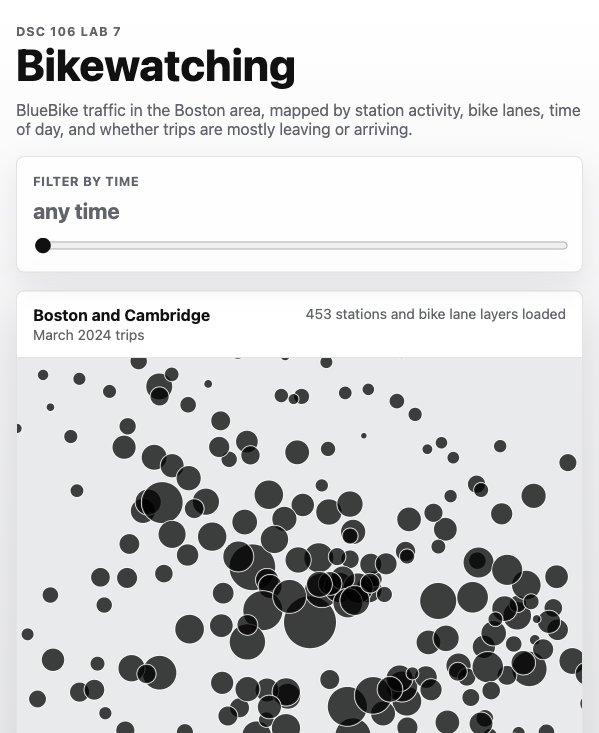
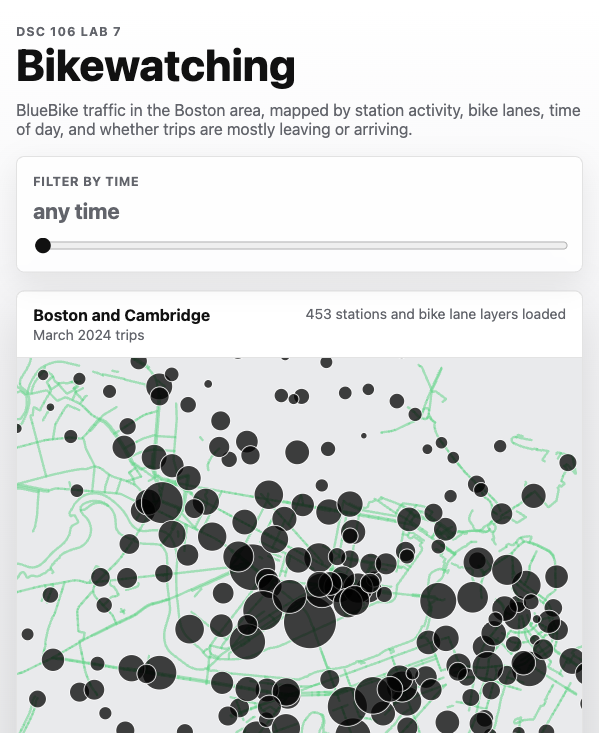
Add lane fallback preview

diff --git a/map.js b/map.js
@@ -20,6 +20,7 @@ let radiusScale = d3.scaleSqrt().range([0, 26]);
 let stationFlow = d3.scaleQuantize().domain([0, 1]).range([0, 0.5, 1]);
 let departuresByMinute = Array.from({ length: MINUTES_PER_DAY }, () => []);
 let arrivalsByMinute = Array.from({ length: MINUTES_PER_DAY }, () => []);
+let bikeLaneSelection;
 
 const hasMapboxToken =
   MAPBOX_ACCESS_TOKEN &&
@@ -67,6 +68,8 @@ const map = new mapboxgl.Map({
 map.addControl(new mapboxgl.NavigationControl({ showCompass: false }), 'bottom-right');
 
 const svg = d3.select('#map').select('svg');
+const bikeLaneLayer = svg.append('g').attr('class', 'bike-lanes-overlay');
+const stationLayer = svg.append('g').attr('class', 'stations-overlay');
 const status = document.querySelector('#loading-status');
 const timeSlider = document.querySelector('#time-slider');
 const selectedTime = document.querySelector('#selected-time');
@@ -77,16 +80,22 @@ map.on('load', async () => {
   addBikeLaneLayer('cambridge-bike-lanes', CAMBRIDGE_BIKE_LANES_URL);
 
   try {
-    const [stationData] = await Promise.all([
+    const [stationData, , bostonBikeLanes, cambridgeBikeLanes] = await Promise.all([
       d3.json(STATIONS_URL),
       d3.csv(TRAFFIC_URL, parseTrip),
+      d3.json(BOSTON_BIKE_LANES_URL),
+      d3.json(CAMBRIDGE_BIKE_LANES_URL),
     ]);
 
     baseStations = stationData.data.stations;
     const stations = computeStationTraffic(baseStations, -1);
     radiusScale.domain([0, d3.max(stations, (d) => d.totalTraffic) || 1]);
 
-    stationSelection = svg
+    if (!hasMapboxToken) {
+      renderBikeLaneFallback([bostonBikeLanes, cambridgeBikeLanes]);
+    }
+
+    stationSelection = stationLayer
       .selectAll('circle')
       .data(stations, (d) => d.short_name)
       .join('circle')
@@ -188,7 +197,7 @@ function filterByMinute(tripsByMinute, minute) {
 function updateStationAttributes(stations, minute) {
   radiusScale.range(minute === -1 ? [0, 26] : [2.5, 44]);
 
-  stationSelection = svg
+  stationSelection = stationLayer
     .selectAll('circle')
     .data(stations, (d) => d.short_name)
     .join('circle')
@@ -225,6 +234,8 @@ function getCoords(station) {
 }
 
 function updatePositions() {
+  updateBikeLaneFallback();
+
   if (!stationSelection) {
     return;
   }
@@ -232,6 +243,50 @@ function updatePositions() {
   stationSelection
     .attr('cx', (station) => getCoords(station).cx)
     .attr('cy', (station) => getCoords(station).cy);
+}
+
+function renderBikeLaneFallback(geojsonCollections) {
+  const features = geojsonCollections.flatMap((collection) => collection.features ?? []);
+
+  bikeLaneSelection = bikeLaneLayer
+    .selectAll('path')
+    .data(features)
+    .join('path');
+
+  updateBikeLaneFallback();
+}
+
+function updateBikeLaneFallback() {
+  if (!bikeLaneSelection) {
+    return;
+  }
+
+  bikeLaneSelection.attr('d', (feature) => getBikeLanePath(feature.geometry));
+}
+
+function getBikeLanePath(geometry) {
+  if (!geometry) {
+    return '';
+  }
+
+  if (geometry.type === 'LineString') {
+    return getLineStringPath(geometry.coordinates);
+  }
+
+  if (geometry.type === 'MultiLineString') {
+    return geometry.coordinates.map(getLineStringPath).join('');
+  }
+
+  return '';
+}
+
+function getLineStringPath(coordinates) {
+  return coordinates
+    .map(([longitude, latitude], index) => {
+      const { x, y } = map.project(new mapboxgl.LngLat(+longitude, +latitude));
+      return `${index === 0 ? 'M' : 'L'}${x},${y}`;
+    })
+    .join('');
 }
 
 function bindMapEvents() {

diff --git a/map.css b/map.css
@@ -64,6 +64,16 @@
     opacity 120ms ease-out;
 }
 
+.bike-lanes-overlay path {
+  fill: none;
+  stroke: var(--green);
+  stroke-linecap: round;
+  stroke-linejoin: round;
+  stroke-opacity: 0.58;
+  stroke-width: 2.4;
+  pointer-events: none;
+}
+
 #map circle:hover {
   fill-opacity: 0.93;
   stroke-width: 2.5;